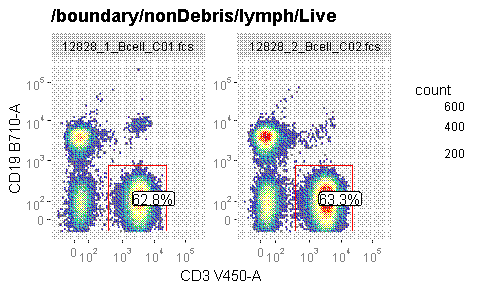
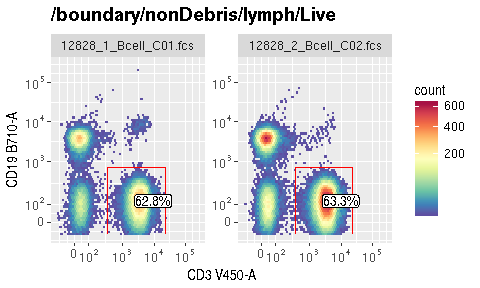
update README

diff --git a/README.md b/README.md
@@ -1,5 +1,14 @@
-# ggcyto : Visualize `Cytometry` data with `ggplot`'
-
+---
+title: 'ggcyto : Visualize `Cytometry` data with `ggplot`'
+output:
+  html_document:
+    fig_height: 1
+    fig_width: 1
+    keep_md: yes
+vignette: >    
+  %\VignetteEngine{knitr::rmarkdown}
+  %\VignetteIndexEntry{Feature summary of ggcyto}
+---
 
 
 `ggcyto` is a cytometry data visualization tool built around ggplot and the grammar of graphics paradigm. The software extends the popular ggplot2 framework, already familiar to many data scientists, enabling it to recog-nize the core Bioconductor flow cytometry data structures for gated and annotated cytometry data. It simplifies visualization and plotting of flow data for publication quality graphics. 
@@ -93,12 +102,40 @@ autoplot(fs, "CD20", "CD19") #plot 2D
 
 ![](README_files/figure-html/unnamed-chunk-4-7.png)<!-- -->
 
+```r
+gs1 <- gs[1]
+gs2 <- gs[2]
+#construct the ggcyto object for gs1
+p <- ggcyto(gs1, aes(cd24, cd38)) + geom_hex(bins = 128)
+p <- p + geom_gate("Transitional") #add gate
+#customize the stats layer
+p <- p + geom_stats(type = "count", size = 6,  color = "red", fill = "green", adjust = 0.7)
+#customize the layer
+p <- p + labs_cyto("channel")
+#customize the axis limits
+p <- p + ggcyto_par_set(limits = "instrument")
+#add another population as the overlay dots
+p <- p + geom_overlay("IgD-CD27-", col = "black", size = 1.2, alpha = 0.4)
+#hide the legend
+p <- p + guides(fill=FALSE)
+p
+```
+
+![](README_files/figure-html/unnamed-chunk-5-1.png)<!-- -->
+
+```r
+#replace the data with gs2 and see the same visual effect
+p %+% gs2
+```
+
+![](README_files/figure-html/unnamed-chunk-5-2.png)<!-- -->
+
 
 ```r
 autoplot(fs, "CD20") #1d density
 ```
 
-![](README_files/figure-html/unnamed-chunk-5-1.png)<!-- -->
+![](README_files/figure-html/unnamed-chunk-6-1.png)<!-- -->
 
 ```r
 #extract one sample as a flowFrame
@@ -107,7 +144,7 @@ fr <- fs[[1]]
 autoplot(fr)
 ```
 
-![](README_files/figure-html/unnamed-chunk-6-1.png)<!-- -->
+![](README_files/figure-html/unnamed-chunk-7-1.png)<!-- -->
 
  
 
@@ -119,7 +156,7 @@ p <- autoplot(gh, nodes, bins = 64)
 p
 ```
 
-![](README_files/figure-html/unnamed-chunk-7-1.png)<!-- -->
+![](README_files/figure-html/unnamed-chunk-8-1.png)<!-- -->
 
 
 ```r
@@ -128,7 +165,7 @@ gt <- ggcyto_arrange(p, nrow = 1)
 plot(gt)
 ```
 
-![](README_files/figure-html/unnamed-chunk-8-1.png)<!-- -->
+![](README_files/figure-html/unnamed-chunk-9-1.png)<!-- -->
 
 
 
